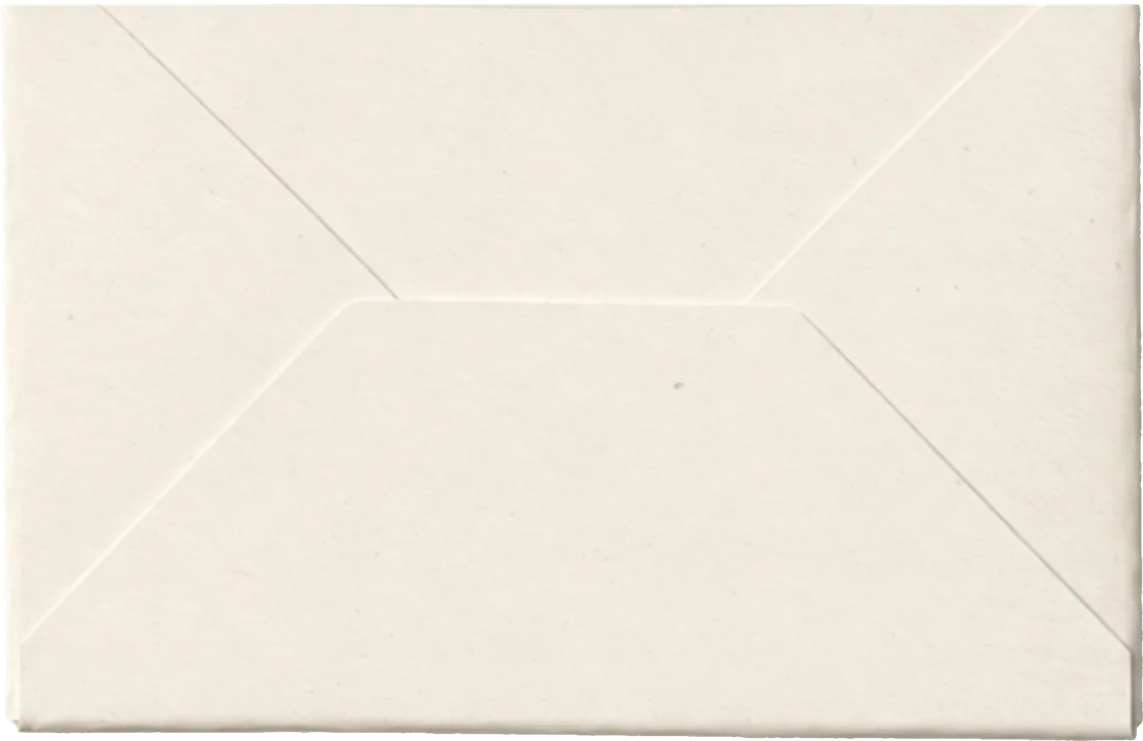
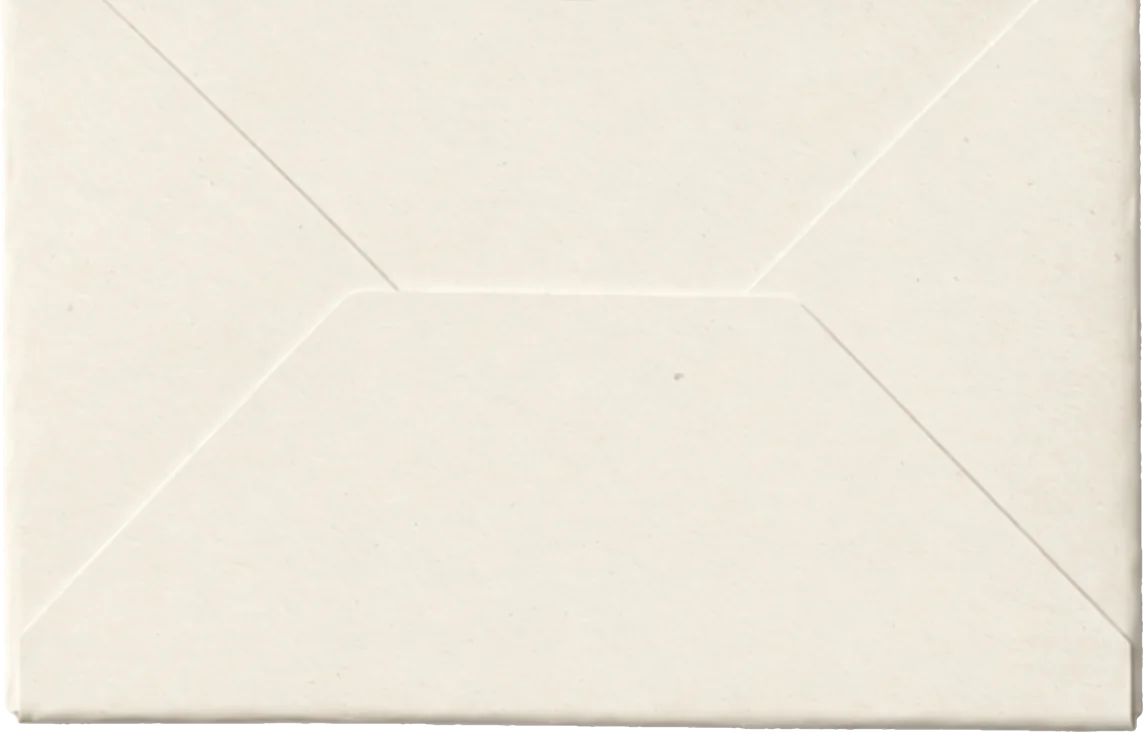
Envelope: close the fold gap, one solid object, realistic light and shadow
Henry's notes: a black line at the fold, the seal pushing like a button, and the seal sliding in on its own. The line was a real gap, because the body's cut-out started below the hinge, and the photo's dark top edge made it heavier. That edge is trimmed, the fold now overlaps paper on paper, and the flap is fitted to the body's full width so they read as one folded sheet. The seal press is gone and the envelope arrives as one object, with parallax coming from the shadow and light behind it, the seal's depth as the flap turns, and the mouse.

The opening now runs off a single angle: light on each face and where the shadow falls are worked out from it with one light position. Added the seal's contact shadow, a table shadow for the opened flap, a soft crease and the paper's edge at the edge-on instant. It rests at 177 degrees, as real paper does.

diff --git a/assets/envelope.css b/assets/envelope.css
@@ -1,93 +1,88 @@
 /* Sealed envelope that opens over the page. Every size is in --u, one unit of the 1173 x 1341
-   artwork, so the layers stay locked together at any screen size. Only transform and opacity
-   animate, so the browser's graphics chip does the work and it stays smooth on phones. --x and
-   --y (-1 to 1) carry the pointer for the desktop parallax. --pace slows the whole thing. */
-.env{--u:calc(min(86vw,58svh,620px)/572);--pace:1;--x:0;--y:0;--ease-rise:cubic-bezier(.16,.84,.3,1);--ease-open:cubic-bezier(.5,.02,.18,1);
+   artwork, so the layers stay locked together at any screen size. The envelope and seal are one
+   solid object; the parallax comes from the shadow and light moving at their own speeds behind it,
+   the seal's real depth as the flap turns, and the mouse on desktop. Only transform and opacity
+   animate, so it stays smooth on phones. The flap's motion and light are in assets/envelope.js. */
+.env{--u:calc(min(86vw,58svh,620px)/572);--pace:1;--x:0;--y:0;--ease-rise:cubic-bezier(.16,.84,.3,1);
   position:fixed;inset:0;z-index:60;display:grid;place-items:center;overflow:hidden;cursor:default}
 .env[hidden]{display:none}
 .env *{box-sizing:border-box}
 .env__scrim{position:absolute;inset:0;background:#252522}
 /* A whisper of grain over the light, so its gradient can't show as rings on dark screens. */
 .env__grain{position:absolute;inset:0;background:url(/assets/envelope/grain.png);opacity:.022;pointer-events:none}
+.env__glow-p,.env__glow-d{position:absolute;inset:0}
 .env__glow{position:absolute;left:50%;top:50%;width:calc(var(--u)*1500);height:calc(var(--u)*1500);margin:calc(var(--u)*-750) 0 0 calc(var(--u)*-750);background:radial-gradient(closest-side,rgba(247,243,233,.075),rgba(247,243,233,0));
   transform:translate3d(calc(var(--x)*var(--u)*-26),calc(var(--y)*var(--u)*-20),0)}
 
-/* The stage is exactly the body's box. It slides down as the flap rises, to keep the pair centred. */
-.env__stage{position:relative;width:calc(var(--u)*572);height:calc(var(--u)*370);perspective:calc(var(--u)*2400);perspective-origin:50% 20%}
+/* The stage is exactly the body's box. It slides down as the flap rises, to keep the pair centred.
+   The camera sits level with the fold, so the flap is truly edge-on at 90 degrees. */
+.env__stage-fade{position:relative;display:block}
+.env__stage{position:relative;width:calc(var(--u)*572);height:calc(var(--u)*366);perspective:calc(var(--u)*2400);perspective-origin:50% 0}
+
+/* Resting shadow on the table: a wide soft one plus a tight dark one where the paper meets it. */
+.env__shadow-d,.env__shadow-r,.env__shadow-p{position:absolute;inset:0}
+.env__shadow-p{transform:translate3d(calc(var(--x)*var(--u)*-20),calc(var(--y)*var(--u)*-14),0)}
 .env__shadow{position:absolute;inset:calc(var(--u)*22) calc(var(--u)*10) calc(var(--u)*-26);background:#000;opacity:.55;filter:blur(calc(var(--u)*30));border-radius:calc(var(--u)*12)}
-.env__shadow-p{position:absolute;inset:0;transform:translate3d(calc(var(--x)*var(--u)*-20),calc(var(--y)*var(--u)*-14),0)}
-.env__tilt{position:absolute;inset:0;transform-style:preserve-3d;transform:rotateX(calc(var(--y)*-2.4deg)) rotateY(calc(var(--x)*3.2deg))}
+.env__shadow2{position:absolute;inset:calc(var(--u)*4) calc(var(--u)*2) calc(var(--u)*-5);background:#000;opacity:.5;filter:blur(calc(var(--u)*5))}
+
+.env__drift,.env__rise,.env__tilt{position:absolute;inset:0;transform-style:preserve-3d}
+.env__tilt{transform:rotateX(calc(var(--y)*-2.4deg)) rotateY(calc(var(--x)*3.2deg))}
 .env__body{position:absolute;inset:0}
 .env__body img{display:block;width:100%;height:100%}
 
-/* The shadow the flap throws on the body while it is still folded down. */
-.env__cast{position:absolute;left:calc(var(--u)*9.67);top:0;width:calc(var(--u)*553);height:calc(var(--u)*324);transform-origin:50% 0;opacity:.2;filter:blur(calc(var(--u)*5));transform:translate3d(0,calc(var(--u)*2),.5px)}
-.env__cast i{display:block;width:100%;height:100%;background:#3b3323;clip-path:polygon(0 0,100% 0,100% 13%,51.5% 100%,48.5% 100%,0 13%)}
-
-.env__flap-p{position:absolute;left:calc(var(--u)*9.67);top:0;width:calc(var(--u)*553);height:calc(var(--u)*324);transform-style:preserve-3d;transform:translateZ(1px)}
+/* Flap geometry, shared by the flap and every shadow it throws. The fold sits a hair inside the
+   body's top edge, so paper always overlaps paper and no gap can open at any angle. */
+.env__flap-p,.env__cast,.env__cast2{position:absolute;left:calc(var(--u)*1.6);top:calc(var(--u)*1.5);width:calc(var(--u)*568.8);height:calc(var(--u)*324)}
+.env__flap-p{transform-style:preserve-3d;transform:translateZ(1px)}
 .env__flap{position:absolute;inset:0;transform-origin:50% 0;transform-style:preserve-3d;will-change:transform}
-/* Faces must stay flat: Safari won't hide a layer's reverse side if its children have their own 3D. */
-.env__face{position:absolute;inset:0;-webkit-backface-visibility:hidden;backface-visibility:hidden}
+
+/* What the flap throws on the body: tight while it lies close, wide and soft once it lifts. */
+.env__cast,.env__cast2{transform-origin:50% 0;transform:translateZ(.5px)}
+.env__cast{opacity:.3;filter:blur(calc(var(--u)*2.5))}
+.env__cast2{opacity:.12;filter:blur(calc(var(--u)*20))}
+.env__cast i,.env__cast2 i,.env__tablecast i{display:block;width:100%;height:100%;background:#2b2518}
+.env__cast i,.env__cast2 i{clip-path:polygon(0 0,100% 0,100% 13%,51.5% 100%,48.5% 100%,0 13%)}
+/* Once it's past the vertical, its shadow lands on the table above the envelope instead. */
+.env__tablecast{position:absolute;left:calc(var(--u)*1.6);bottom:calc(100% - var(--u)*1.5);width:calc(var(--u)*568.8);height:calc(var(--u)*324);transform-origin:50% 100%;opacity:0;filter:blur(calc(var(--u)*7))}
+.env__tablecast i{background:#000;clip-path:polygon(48.5% 0,51.5% 0,100% 87%,100% 100%,0 100%,0 87%)}
+
+/* Soft crease where the opened flap folds into the body. */
+.env__crease{position:absolute;left:0;right:0;top:0;height:calc(var(--u)*9);background:linear-gradient(180deg,rgba(45,38,25,.2),rgba(45,38,25,0));opacity:0;transform:translateZ(.6px)}
+/* Paper has thickness: this is the sheet's edge, seen for the instant the flap is edge-on. */
+.env__edge{position:absolute;left:calc(var(--u)*1.6);top:calc(var(--u)*.7);width:calc(var(--u)*568.8);height:calc(var(--u)*1.6);background:#d9d3c5;opacity:0;transform:translateZ(1.5px)}
+
+/* Faces stay flat and swap by opacity exactly at 90 degrees, when neither can be seen. Safari's
+   engine doesn't reliably hide a layer's reverse side, so nothing here depends on that. */
+.env__face{position:absolute;inset:0}
 .env__face img{display:block;position:absolute}
 .env__face>img.env__paper{inset:0;width:100%;height:100%}
-.env__face--back{transform:rotateX(180deg);visibility:hidden}
-/* Shading is a dark copy of the flap's shape whose opacity changes, instead of a filter redrawn every frame. */
-.env__shade{position:absolute;inset:0;background:linear-gradient(180deg,#3b3323,#1d1a12);-webkit-mask-size:100% 100%;mask-size:100% 100%;opacity:0}
-.env__face--front .env__shade{-webkit-mask-image:url(/assets/envelope/flap-outside.webp);mask-image:url(/assets/envelope/flap-outside.webp)}
-.env__face--back .env__shade{-webkit-mask-image:url(/assets/envelope/flap-inside.webp);mask-image:url(/assets/envelope/flap-inside.webp);background:linear-gradient(0deg,#3b3323,#1d1a12)}
-/* The seal stands proud of the paper, so it really shifts against it as the flap turns. */
-.env__seal-p{position:absolute;inset:0;transform:translateZ(calc(var(--u)*9));-webkit-backface-visibility:hidden;backface-visibility:hidden}
-.env__seal{display:block;position:absolute;left:calc(var(--u)*231.5);top:calc(var(--u)*266);width:calc(var(--u)*90);height:auto}
-.env__seal-back{left:calc(var(--u)*231.5);top:calc(var(--u)*-29.6);width:calc(var(--u)*90);height:auto}
+.env__face--back{transform:rotateX(180deg);opacity:0}
+.env__shade{position:absolute;inset:0;-webkit-mask-size:100% 100%;mask-size:100% 100%;opacity:0}
+.env__face--front .env__shade{background:linear-gradient(180deg,#221d12,#2f291c);-webkit-mask-image:url(/assets/envelope/flap-outside.webp);mask-image:url(/assets/envelope/flap-outside.webp)}
+.env__face--back .env__shade{background:linear-gradient(0deg,#221d12,#2f291c);-webkit-mask-image:url(/assets/envelope/flap-inside.webp);mask-image:url(/assets/envelope/flap-inside.webp)}
+.env__fold{position:absolute;left:0;right:0;bottom:0;height:calc(var(--u)*7);background:linear-gradient(0deg,rgba(45,38,25,.15),rgba(45,38,25,0))}
+.env__fold--top{top:0;bottom:auto;background:linear-gradient(180deg,rgba(45,38,25,.08),rgba(45,38,25,0))}
+/* The wax stands proud of the paper, so it really shifts against it as the flap turns. */
+.env__seal-p{position:absolute;inset:0;transform:translateZ(calc(var(--u)*9))}
+.env__seal-shadow{position:absolute;left:50%;top:calc(var(--u)*268);width:calc(var(--u)*92);height:calc(var(--u)*90);margin-left:calc(var(--u)*-46);border-radius:50%;background:#1a160d;opacity:.34;filter:blur(calc(var(--u)*4));transform:translate3d(0,calc(var(--u)*3),calc(var(--u)*-9))}
+.env__seal{display:block;position:absolute;left:50%;top:calc(var(--u)*266);width:calc(var(--u)*90);height:auto;margin-left:calc(var(--u)*-45)}
+.env__seal-back{left:50%;top:calc(var(--u)*-29.6);width:calc(var(--u)*90);height:auto;margin-left:calc(var(--u)*-45)}
 
-/* ── the sequence: arrive, settle, open ── */
+/* Arrival. The whole envelope moves as one; the shadow and light travel less, which reads as depth. */
 .env.is-playing .env__scrim{animation:env-fade calc(500ms*var(--pace)) ease-out both}
 .env.is-playing .env__glow-p{animation:env-rise-glow calc(1500ms*var(--pace)) var(--ease-rise) both}
 .env.is-playing .env__stage-fade{animation:env-fade calc(520ms*var(--pace)) ease-out calc(100ms*var(--pace)) both}
-/* Parallax: nearer layers travel further on the way in. Same time, different distance. */
+.env.is-playing .env__rise{animation:env-rise calc(1150ms*var(--pace)) var(--ease-rise) calc(100ms*var(--pace)) both;--from:calc(var(--u)*70);--scale:1}
 .env.is-playing .env__shadow-r{animation:env-rise calc(1150ms*var(--pace)) var(--ease-rise) calc(100ms*var(--pace)) both;--from:calc(var(--u)*34);--scale:.94}
-.env.is-playing .env__body{animation:env-rise calc(1150ms*var(--pace)) var(--ease-rise) calc(100ms*var(--pace)) both;--from:calc(var(--u)*70);--scale:1}
-.env.is-playing .env__flap-r{animation:env-rise calc(1150ms*var(--pace)) var(--ease-rise) calc(100ms*var(--pace)) both;--from:calc(var(--u)*92);--scale:1}
-.env.is-playing .env__seal-r{animation:env-rise calc(1150ms*var(--pace)) var(--ease-rise) calc(100ms*var(--pace)) both,env-press calc(420ms*var(--pace)) ease-in-out calc(1220ms*var(--pace)) both;--from:calc(var(--u)*122);--scale:1.05}
-.env.is-playing .env__flap{animation:env-open calc(1650ms*var(--pace)) linear calc(1560ms*var(--pace)) both}
-.env.is-playing .env__face--front,.env.is-playing .env__seal-p{animation:env-show-front calc(1650ms*var(--pace)) linear calc(1560ms*var(--pace)) both}
-.env.is-playing .env__face--back{animation:env-show-back calc(1650ms*var(--pace)) linear calc(1560ms*var(--pace)) both}
-.env.is-playing .env__drift{animation:env-drift calc(1650ms*var(--pace)) var(--ease-open) calc(1560ms*var(--pace)) both}
-.env.is-playing .env__shadow-d{animation:env-drift-shadow calc(1950ms*var(--pace)) var(--ease-open) calc(1560ms*var(--pace)) both}
-.env.is-playing .env__glow-d{animation:env-drift-glow calc(2300ms*var(--pace)) var(--ease-open) calc(1560ms*var(--pace)) both}
-.env.is-playing .env__face--front .env__shade{animation:env-shade-front calc(825ms*var(--pace)) ease-in calc(1560ms*var(--pace)) both}
-.env.is-playing .env__face--back .env__shade{animation:env-shade-back calc(825ms*var(--pace)) ease-out calc(2385ms*var(--pace)) both}
-.env.is-playing .env__cast{animation:env-cast calc(825ms*var(--pace)) ease-in calc(1560ms*var(--pace)) both}
-.env__flap-r,.env__drift{display:block;transform-style:preserve-3d}
-.env__shadow-r,.env__seal-r,.env__shadow-d,.env__glow-p,.env__glow-d,.env__stage-fade{display:block}
-.env__shadow-r,.env__shadow-d,.env__glow-p,.env__glow-d,.env__flap-r,.env__drift{position:absolute;inset:0}
-.env__stage-fade{position:relative}
-.env__seal-r{position:absolute;inset:0}
-
 @keyframes env-fade{from{opacity:0}to{opacity:1}}
 @keyframes env-rise{from{transform:translate3d(0,var(--from),0) scale(var(--scale))}to{transform:none}}
 @keyframes env-rise-glow{from{opacity:0;transform:translate3d(0,calc(var(--u)*22),0)}to{opacity:1;transform:none}}
-@keyframes env-press{0%,100%{transform:none}45%{transform:scale(.97)}}
-/* Two halves meeting at exactly 90 degrees, edge-on, so the faces can swap unseen. The curves are
-   matched at the join (same speed either side), so the turn stays one continuous move. */
-@keyframes env-open{0%{transform:rotateX(0);animation-timing-function:cubic-bezier(.5,.02,.75,.5)}50%{transform:rotateX(90deg);animation-timing-function:cubic-bezier(.25,.5,.2,1)}100%{transform:rotateX(180deg)}}
-@keyframes env-show-front{0%,49.9%{visibility:visible}50%,100%{visibility:hidden}}
-@keyframes env-show-back{0%,49.9%{visibility:hidden}50%,100%{visibility:visible}}
-@keyframes env-drift{from{transform:none}to{transform:translate3d(0,calc(var(--u)*150),0)}}
-/* The shadow and the light lag behind the envelope, and that lag reads as depth. */
-@keyframes env-drift-shadow{from{transform:none}to{transform:translate3d(0,calc(var(--u)*150),0)}}
-@keyframes env-drift-glow{from{transform:none}to{transform:translate3d(0,calc(var(--u)*36),0)}}
-@keyframes env-shade-front{from{opacity:0}to{opacity:.22}}
-@keyframes env-shade-back{from{opacity:.26}to{opacity:0}}
-@keyframes env-cast{from{opacity:.2;transform:translate3d(0,calc(var(--u)*2),.5px) scaleY(1)}55%{opacity:.34}to{opacity:0;transform:translate3d(0,calc(var(--u)*2),.5px) scaleY(.05)}}
 
 /* Reduced motion: no travel at all, the open envelope simply fades in. */
-@media(prefers-reduced-motion:reduce){
-  .env.is-playing *{animation:none!important}
-  .env.is-playing .env__flap{transform:rotateX(180deg)}
-  .env.is-playing .env__face--front,.env.is-playing .env__seal-p{visibility:hidden}
-  .env.is-playing .env__face--back{visibility:visible}
-  .env.is-playing .env__cast{opacity:0}
-  .env.is-playing .env__drift,.env.is-playing .env__shadow-d{transform:translate3d(0,calc(var(--u)*150),0)}
-  .env.is-playing .env__scrim{animation:env-fade 200ms ease-out both!important}
-}
+.env.is-instant .env__flap{transform:rotateX(177deg)}
+.env.is-instant .env__face--front,.env.is-instant .env__seal-p,.env.is-instant .env__cast,.env.is-instant .env__cast2{opacity:0}
+.env.is-instant .env__face--back{opacity:1}
+.env.is-instant .env__crease{opacity:1}
+.env.is-instant .env__tablecast{opacity:.5}
+.env.is-instant .env__drift,.env.is-instant .env__shadow-d{transform:translate3d(0,calc(var(--u)*148),0)}
+@media(prefers-reduced-motion:reduce){.env.is-playing *{animation:none!important}.env.is-playing .env__scrim{animation:env-fade 200ms ease-out both!important}}

diff --git a/assets/envelope.js b/assets/envelope.js
@@ -1,16 +1,19 @@
-/* Sealed envelope overlay. window.dbhEnvelope.open() plays it; close() removes it. Layers move at
-   different speeds as it arrives, and with a mouse they keep drifting against each other. The
-   markup stays out of the page until it's needed, and the images are decoded before it plays so
-   the first frame never pops in. */
+/* Sealed envelope overlay. window.dbhEnvelope.open() plays it; close() removes it. The opening runs
+   off one number, the flap's angle, and everything else is worked out from it: the light on each
+   face and where its shadow falls. So they can't drift apart. The markup stays out of the page
+   until it's needed, and images are decoded first so the opening frame never pops in. */
 (function () {
-  var B = '/assets/envelope/', FILES = ['body', 'flap-outside', 'flap-inside', 'seal'];
-  var root, raf = 0, tx = 0, ty = 0, x = 0, y = 0, lastFocus, onEnd;
+  var B = '/assets/envelope/', FILES = ['body', 'flap-outside', 'flap-inside', 'seal', 'grain'];
+  var OPEN_AT = 1450, OPEN_FOR = 1750, END_ANGLE = 177, DRIFT = 148;
+  // Light from above and in front of the page, as (down the screen, towards the viewer).
+  var LIGHT_Y = -0.45, LIGHT_Z = 0.89;
+  var root, raf = 0, tx = 0, ty = 0, x = 0, y = 0, lastFocus, onEnd, pace = 1, running = [];
   var decoded;
 
   function preload() {
     if (decoded) return decoded;
     decoded = Promise.all(FILES.map(function (f) {
-      var i = new Image(); i.src = B + f + '.webp';
+      var i = new Image(); i.src = B + f + (f === 'grain' ? '.png' : '.webp');
       return i.decode ? i.decode().catch(function () {}) : Promise.resolve();
     }));
     return decoded;
@@ -21,24 +24,76 @@
     el.className = 'env'; el.hidden = true;
     el.setAttribute('role', 'dialog'); el.setAttribute('aria-modal', 'true'); el.setAttribute('aria-label', 'Concierge');
     el.tabIndex = -1;
+    var seal = 'src="' + B + 'seal.webp" alt="" width="360" height="351"';
     el.innerHTML =
       '<div class="env__scrim"></div><div class="env__grain"></div>' +
       '<div class="env__glow-d"><div class="env__glow-p"><div class="env__glow"></div></div></div>' +
       '<div class="env__stage-fade"><div class="env__stage">' +
-        '<div class="env__shadow-d"><div class="env__shadow-r"><div class="env__shadow-p"><div class="env__shadow"></div></div></div></div>' +
-        '<div class="env__drift"><div class="env__tilt">' +
-          '<div class="env__body"><img src="' + B + 'body.webp" alt="" width="1143" height="741"></div>' +
-          '<div class="env__cast"><i></i></div>' +
-          '<div class="env__flap-r"><div class="env__flap-p"><div class="env__flap">' +
-            '<div class="env__face env__face--front"><img class="env__paper" src="' + B + 'flap-outside.webp" alt="" width="1106" height="648"><div class="env__shade"></div></div>' +
-            '<div class="env__seal-p"><div class="env__seal-r"><img class="env__seal" src="' + B + 'seal.webp" alt="" width="360" height="351"></div></div>' +
-            '<div class="env__face env__face--back"><img class="env__seal-back" src="' + B + 'seal.webp" alt="" width="360" height="351"><img class="env__paper" src="' + B + 'flap-inside.webp" alt="" width="1106" height="648"><div class="env__shade"></div></div>' +
-          '</div></div></div>' +
-        '</div></div>' +
+        '<div class="env__shadow-d"><div class="env__shadow-r"><div class="env__shadow-p"><div class="env__shadow"></div><div class="env__shadow2"></div></div></div></div>' +
+        '<div class="env__drift"><div class="env__rise"><div class="env__tilt">' +
+          '<div class="env__tablecast"><i></i></div>' +
+          '<div class="env__body"><img src="' + B + 'body.webp" alt="" width="1143" height="732"></div>' +
+          '<div class="env__crease"></div><div class="env__cast2"><i></i></div><div class="env__cast"><i></i></div><div class="env__edge"></div>' +
+          '<div class="env__flap-p"><div class="env__flap">' +
+            '<div class="env__face env__face--front"><img class="env__paper" src="' + B + 'flap-outside.webp" alt="" width="1106" height="648"><div class="env__fold env__fold--top"></div><div class="env__shade"></div></div>' +
+            '<div class="env__seal-p"><div class="env__seal-shadow"></div><img class="env__seal" ' + seal + '></div>' +
+            '<div class="env__face env__face--back"><img class="env__seal-back" ' + seal + '><img class="env__paper" src="' + B + 'flap-inside.webp" alt="" width="1106" height="648"><div class="env__fold"></div><div class="env__shade"></div></div>' +
+          '</div></div>' +
+        '</div></div></div>' +
       '</div></div>';
     document.body.appendChild(el);
     el.addEventListener('click', function (e) { if (!e.target.closest('.env__stage')) close(); });
     return el;
+  }
+
+  // Timing for the turn: a slow start while the wax lets go of the paper, then a soft landing.
+  function bezier(x1, y1, x2, y2) {
+    var at = function (t, a, b) { var u = 1 - t; return 3 * u * u * t * a + 3 * u * t * t * b + t * t * t; };
+    return function (p) {
+      var lo = 0, hi = 1, t = p;
+      for (var i = 0; i < 24; i++) { if (at(t, x1, x2) < p) lo = t; else hi = t; t = (lo + hi) / 2; }
+      return at(t, y1, y2);
+    };
+  }
+  var clamp = function (v, a, b) { return v < a ? a : v > b ? b : v; };
+  var rad = function (d) { return d * Math.PI / 180; };
+
+  function playOpening() {
+    var ease = bezier(0.56, 0.01, 0.2, 1), N = 72, q = function (s) { return root.querySelector(s); };
+    var angle = function (p) { return END_ANGLE * ease(p); };
+    var timing = { duration: OPEN_FOR * pace, delay: OPEN_AT * pace, fill: 'both', easing: 'linear' };
+    var track = function (el, fn) {
+      var frames = [];
+      for (var i = 0; i <= N; i++) { var p = i / N, f = fn(angle(p), p); f.offset = p; frames.push(f); }
+      running.push(el.animate(frames, timing));
+    };
+    // Where the flap's shadow lands, as a share of its length. Past about 117 degrees it's on the table instead.
+    var reach = function (a) { return Math.cos(rad(a)) - (LIGHT_Y / LIGHT_Z) * Math.sin(rad(a)); };
+    // Darkness of a face from how directly it faces the light, 0 when fully lit.
+    var dark = function (facing, strength) { return clamp((LIGHT_Z - clamp(facing, 0, 1)) / LIGHT_Z, 0, 1) * strength; };
+
+    track(q('.env__flap'), function (a) { return { transform: 'rotateX(' + a.toFixed(3) + 'deg)' }; });
+    track(q('.env__face--front .env__shade'), function (a) { return { opacity: dark(Math.cos(rad(a)) * LIGHT_Z - Math.sin(rad(a)) * LIGHT_Y, 0.3) }; });
+    track(q('.env__face--back .env__shade'), function (a) { return { opacity: dark(Math.sin(rad(a)) * LIGHT_Y - Math.cos(rad(a)) * LIGHT_Z, 0.3) }; });
+    track(q('.env__cast'), function (a) { return { opacity: 0.3 * clamp(1 - a / 24, 0, 1), transform: 'translateZ(.5px) scaleY(' + Math.max(reach(a), 0.001).toFixed(4) + ')' }; });
+    track(q('.env__cast2'), function (a) {
+      // The further the paper lifts, the softer and fainter its shadow, as with any real light.
+      var lift = a < 45 ? 0.12 + 0.03 * Math.sin(rad(a * 2)) : 0.15 * clamp((100 - a) / 55, 0, 1);
+      return { opacity: lift, transform: 'translateZ(.5px) scaleY(' + Math.max(reach(a), 0.001).toFixed(4) + ')' };
+    });
+    track(q('.env__tablecast'), function (a) { return { opacity: 0.5 * clamp((a - 116) / 61, 0, 1), transform: 'scaleY(' + Math.max(-reach(a), 0.001).toFixed(4) + ')' }; });
+    track(q('.env__crease'), function (a) { return { opacity: clamp((a - 60) / 40, 0, 1) }; });
+    track(q('.env__edge'), function (a) { return { opacity: clamp(1 - Math.abs(a - 90) / 6, 0, 1) }; });
+    track(q('.env__drift'), function (a, p) { return { transform: 'translate3d(0,calc(var(--u)*' + (DRIFT * ease(p)).toFixed(2) + '),0)' }; });
+    // The shadow follows a beat late and the light hardly moves. That lag is the parallax.
+    track(q('.env__shadow-d'), function (a, p) { return { transform: 'translate3d(0,calc(var(--u)*' + (DRIFT * ease(clamp((p - 0.07) / 0.93, 0, 1))).toFixed(2) + '),0)' }; });
+    track(q('.env__glow-d'), function (a, p) { return { transform: 'translate3d(0,calc(var(--u)*' + (36 * ease(p)).toFixed(2) + '),0)' }; });
+
+    // Swap faces at the frame the flap is exactly edge-on.
+    var lo = 0, hi = 1, mid;
+    for (var i = 0; i < 30; i++) { mid = (lo + hi) / 2; if (angle(mid) < 90) lo = mid; else hi = mid; }
+    var swap = function (el, from, to) { running.push(el.animate([{ opacity: from, offset: 0 }, { opacity: from, offset: mid }, { opacity: to, offset: Math.min(mid + 0.0005, 1) }, { opacity: to, offset: 1 }], timing)); };
+    swap(q('.env__face--front'), 1, 0); swap(q('.env__seal-p'), 1, 0); swap(q('.env__face--back'), 0, 1);
   }
 
   // Desktop only: the layers keep drifting against each other with the mouse. Eased, so it never jerks.
@@ -60,9 +115,12 @@
     root = root || build();
     lastFocus = document.activeElement;
     return Promise.race([preload(), new Promise(function (r) { setTimeout(r, 450); })]).then(function () {
-      root.classList.remove('is-playing'); root.hidden = false;
+      var still = matchMedia('(prefers-reduced-motion: reduce)').matches;
+      root.style.setProperty('--pace', pace);
+      root.classList.remove('is-playing', 'is-instant'); root.hidden = false;
       void root.offsetWidth; // so the sequence restarts from the top on every open
       root.classList.add('is-playing');
+      if (still || !root.animate) root.classList.add('is-instant'); else playOpening();
       document.documentElement.style.overflow = 'hidden';
       root.focus({ preventScroll: true });
       addEventListener('keydown', onKey);
@@ -73,11 +131,12 @@
     if (!root || root.hidden) return;
     removeEventListener('keydown', onKey); removeEventListener('pointermove', onMove);
     cancelAnimationFrame(raf); raf = 0; tx = ty = x = y = 0;
+    running.forEach(function (a) { a.cancel(); }); running = [];
     root.style.removeProperty('--x'); root.style.removeProperty('--y');
-    root.hidden = true; root.classList.remove('is-playing');
+    root.hidden = true; root.classList.remove('is-playing', 'is-instant');
     document.documentElement.style.overflow = '';
     if (lastFocus && lastFocus.focus) lastFocus.focus({ preventScroll: true });
     if (onEnd) onEnd();
   }
-  window.dbhEnvelope = { open: open, close: close, preload: preload, set pace(v) { (root = root || build()).style.setProperty('--pace', v); }, onClose: function (f) { onEnd = f; } };
+  window.dbhEnvelope = { open: open, close: close, preload: preload, set pace(v) { pace = v; }, onClose: function (f) { onEnd = f; } };
 })();

diff --git a/envelope-test/index.html b/envelope-test/index.html
@@ -18,7 +18,7 @@
 <link rel="stylesheet" href="/assets/dbh-brand.css?v=14">
 
 
-<link rel="stylesheet" href="/assets/envelope.css?v=1">
+<link rel="stylesheet" href="/assets/envelope.css?v=3">
 <style>
 .tst{max-width:var(--max);margin:0 auto;padding:clamp(36px,4.6vw,68px) var(--gutter)}
 .tst h1{font-family:var(--intl);font-weight:500;font-size:clamp(40px,6.25vw,120px);line-height:.82;letter-spacing:-.05em;margin:0 0 24px}
@@ -49,7 +49,7 @@
 <a class="btn" href="#concierge" data-envelope>Play the envelope</a>
 </main>
 <div class="ctl" id="ctl"><button type="button" id="replay">Replay</button><button type="button" id="slow" aria-pressed="false">Half speed</button><button type="button" id="done">Close</button></div>
-<script src="/assets/envelope.js?v=1"></script>
+<script src="/assets/envelope.js?v=3"></script>
 <script>
 (function(){
   var E=window.dbhEnvelope,ctl=document.getElementById('ctl'),slow=document.getElementById('slow');
